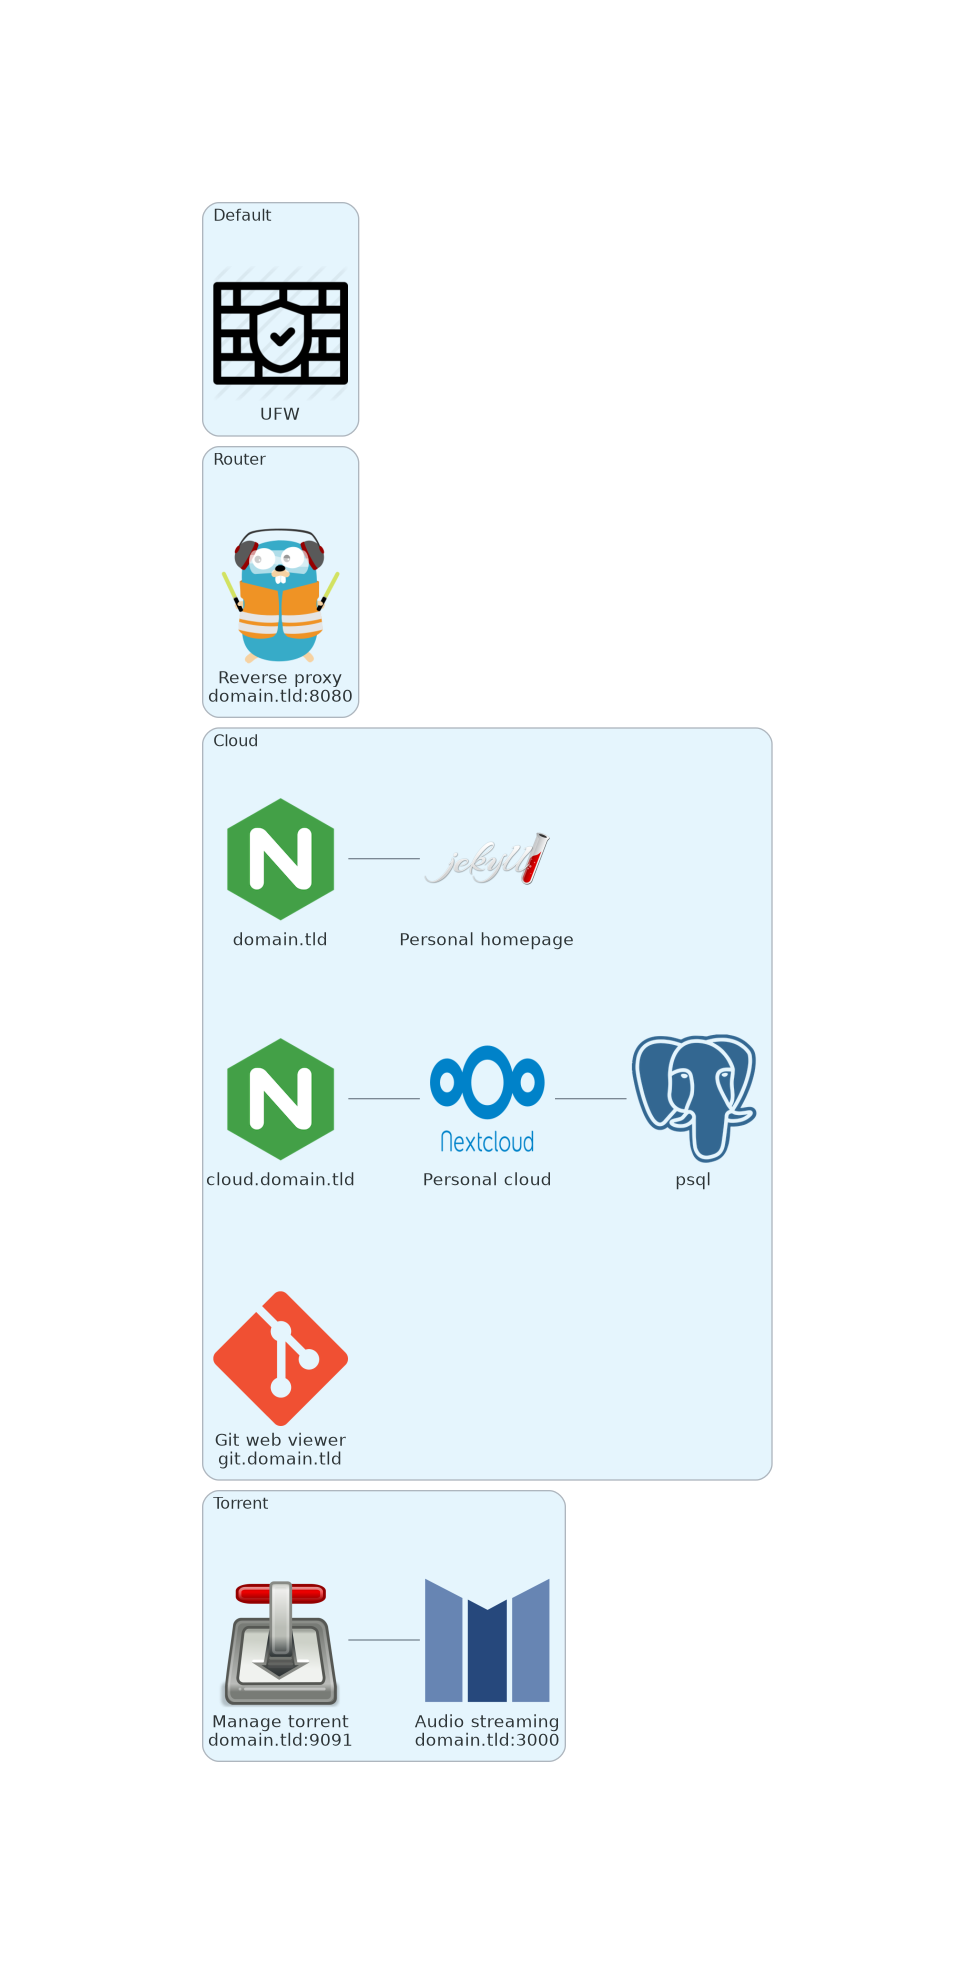
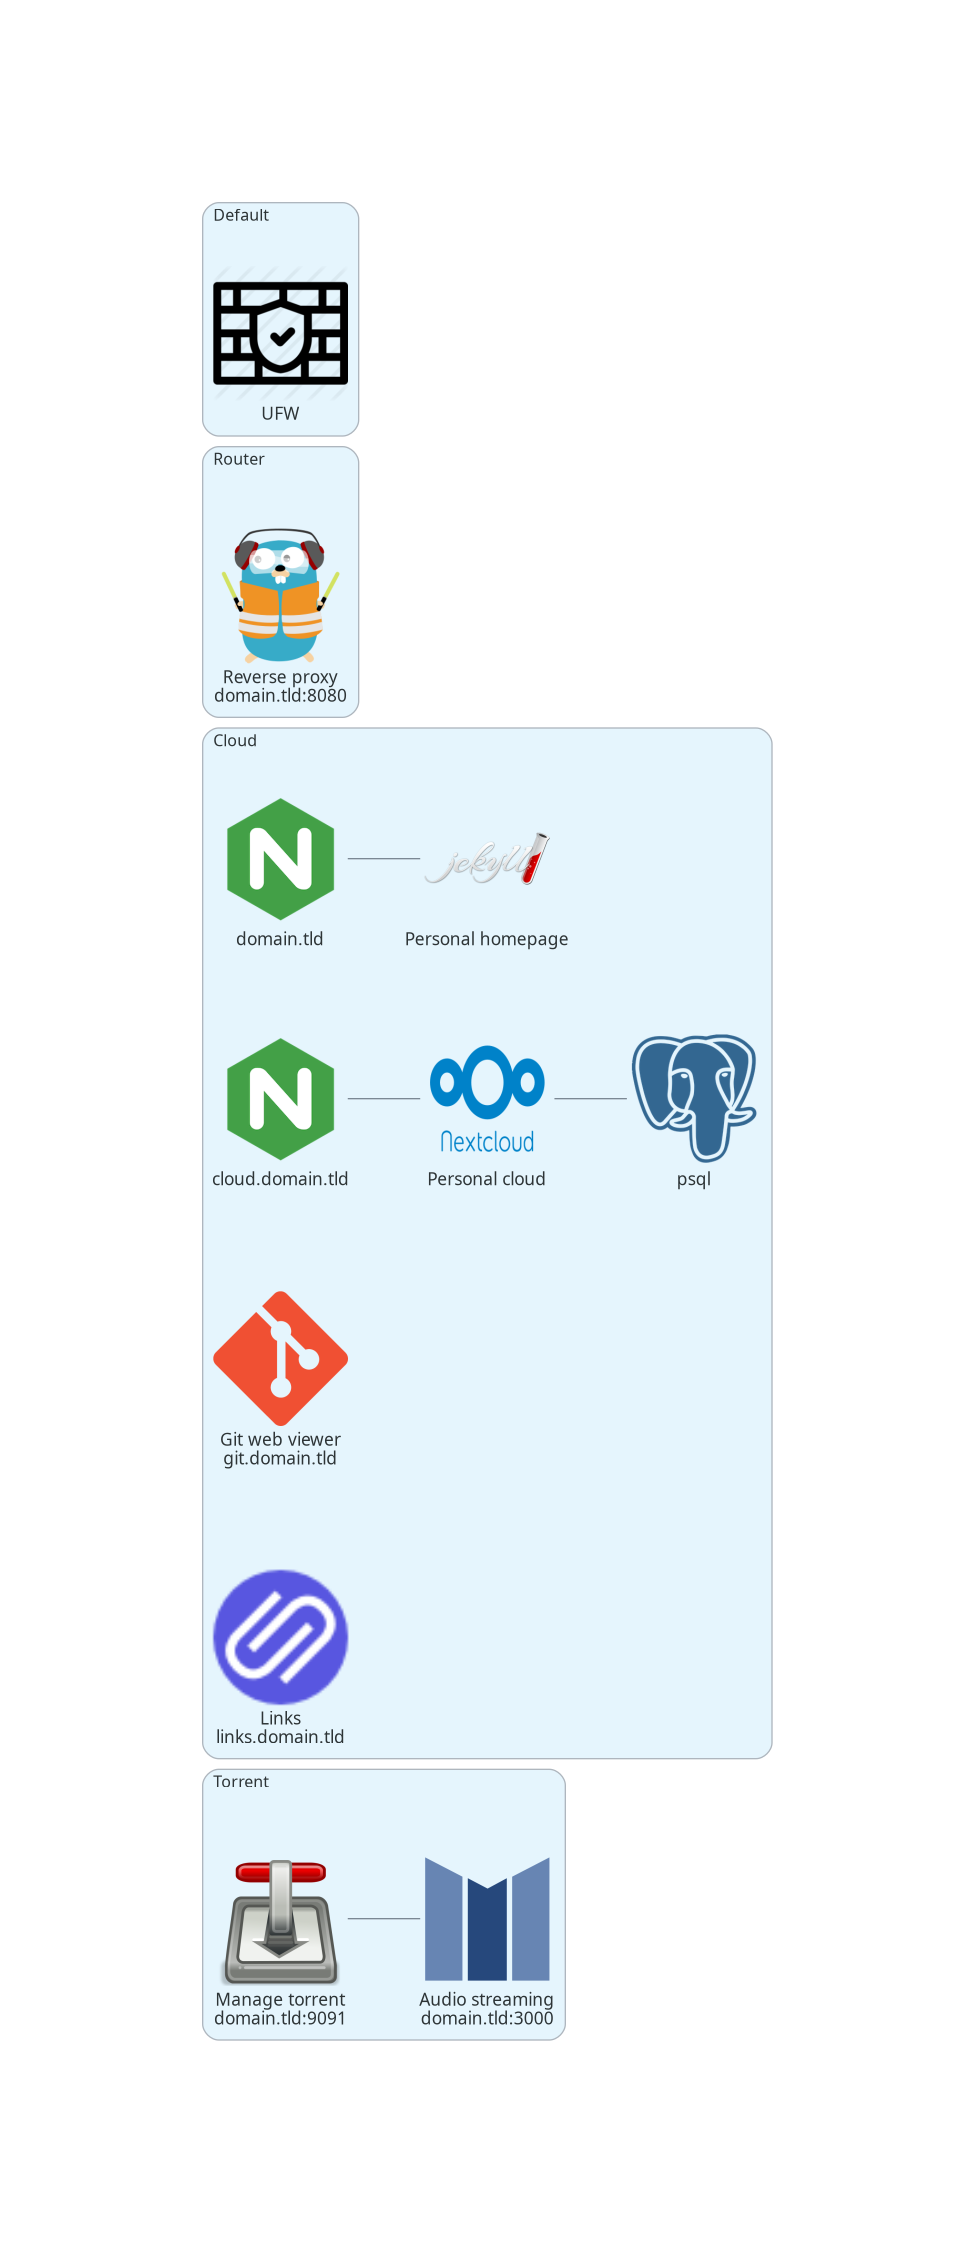
cloud: add a 'links' service as a bookmarks manager

Changed region(s): [[0.1846, 0.0932, 0.8, 0.9318], [0.6462, 0.4659, 0.7692, 0.6212]]

diff --git a/docs/architecture.py b/docs/architecture.py
@@ -23,10 +23,13 @@ def main():
             nc_db = PostgreSQL("psql")
             nc_proxy = Nginx("cloud.domain.tld")
 
+            linkding = Custom("Links\nlinks.domain.tld", "icons/linkding.png")
+
             [
                 web_proxy - web_builder,
                 klaus,
                 nc_proxy - nc - nc_db,
+                linkding,
             ]
 
         with Cluster("Router"):

diff --git a/README.md b/README.md
@@ -12,7 +12,7 @@ The following packages have to be installed to run the whole project:
 		- `vagrant` + `libvirt`: deploy on localhost
 		- `terraform` + `aws-cli` + `gandi`: deploy on AWS and set CNAME
 
-- On target:
+- On target(s):
 	- `python3` (Ansible requirement)
 	- a sudo-able user
 
@@ -24,6 +24,7 @@ The architecture consists yet of the following components:
 	- personal homepage, managed by a Jekyll container (`domain.tld`)
 	- NextCloud instance (`cloud.domain.tld`)
 	- git viewer, Klaus (`git.domain.tld`)
+	- links manager, Linkding (`links.domain.tld`)
 - Torrent module:
 	- Transmission to manage the torrents (`domain.tld:9091`)
 	- music streaming with mStream (`domain.tld:3000`)
